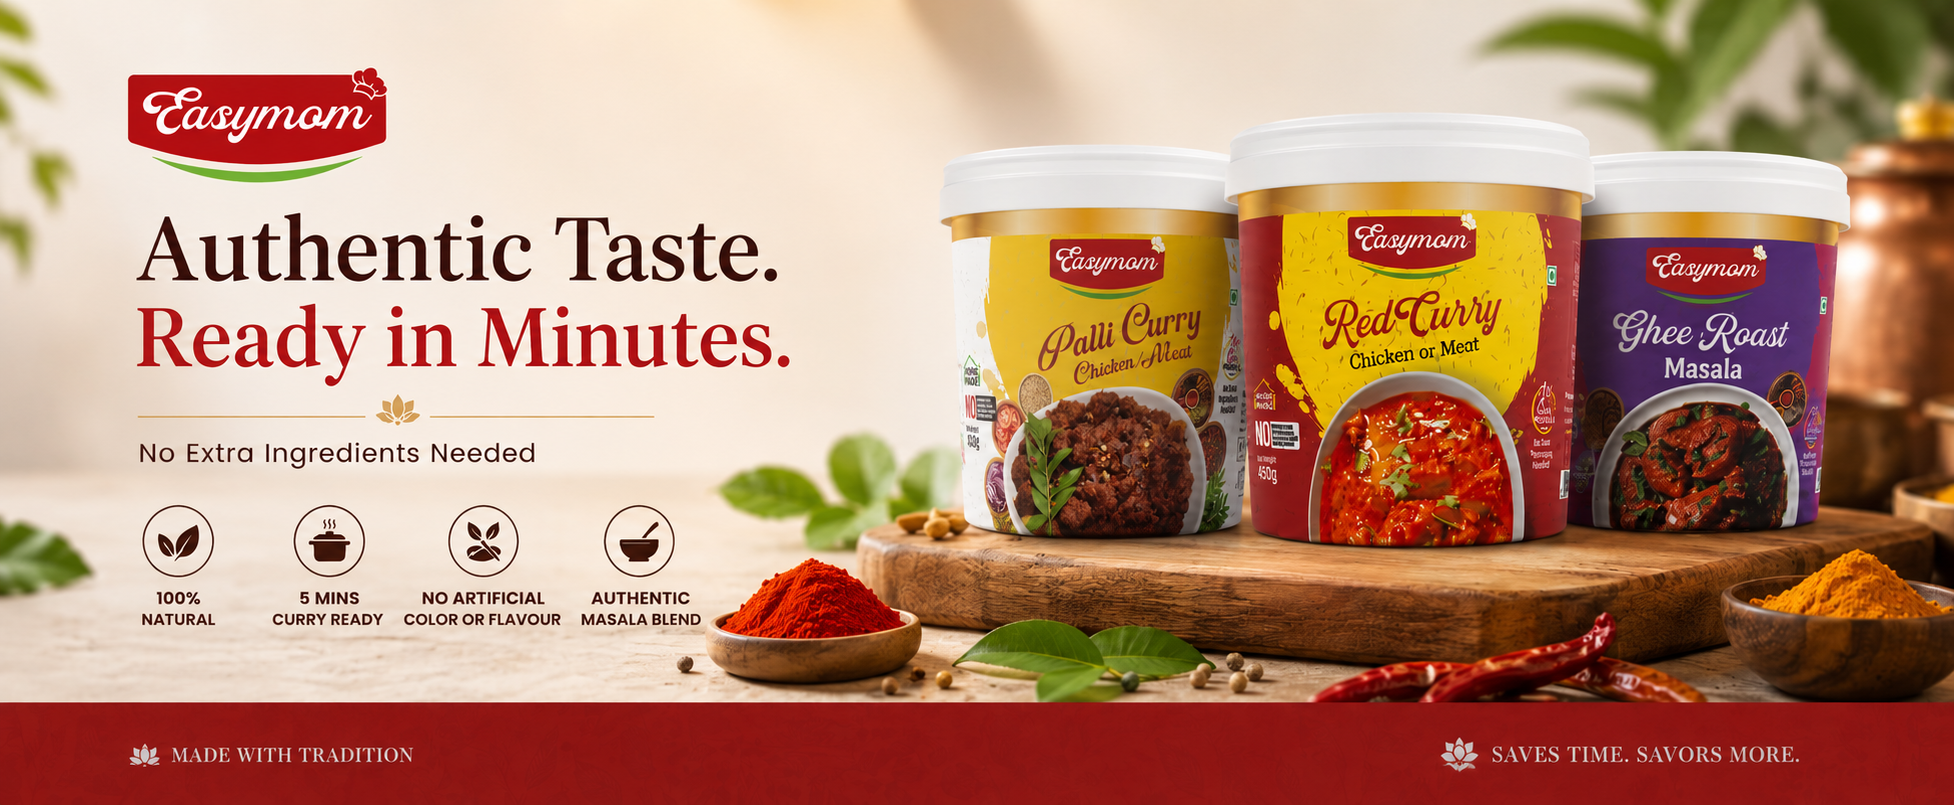
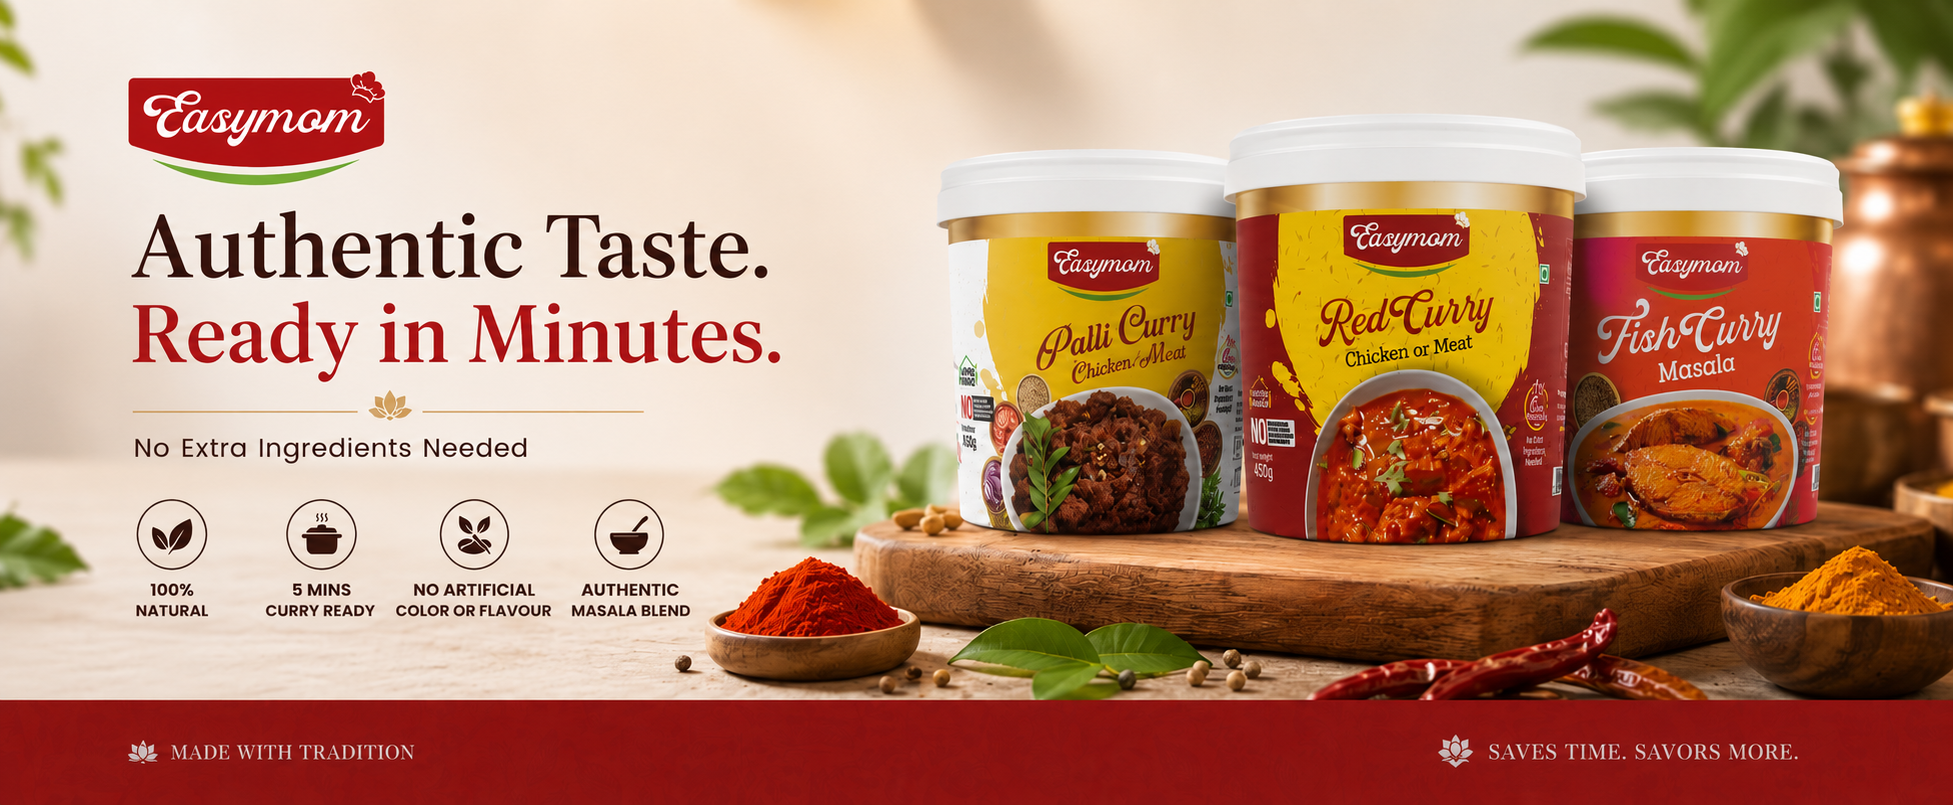
fix: update MRP from 209 to 199 for Ghee Roast & Palli Curry (DB + data.ts)

diff --git a/src/lib/data.ts b/src/lib/data.ts
@@ -172,7 +172,7 @@ export const products: Product[] = [
     slug: "ghee-roast-masala",
     categoryId: "ghee-roast",
     price: 139,
-    mrp: 209,
+    mrp: 199,
     weight: "100 g",
     rating: 4.8,
     reviewCount: 98,
@@ -297,7 +297,7 @@ export const products: Product[] = [
     slug: "palli-curry",
     categoryId: "palli-curry",
     price: 139,
-    mrp: 209,
+    mrp: 199,
     weight: "100 g",
     rating: 4.7,
     reviewCount: 88,